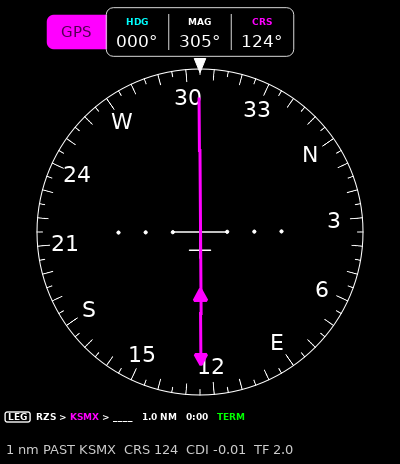
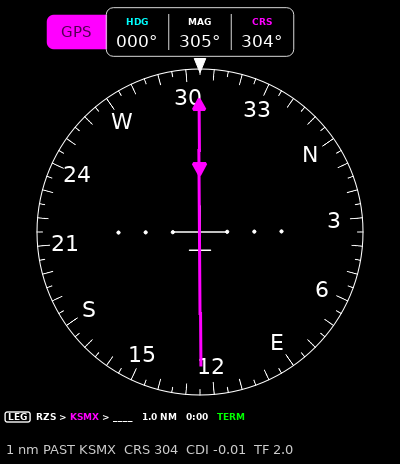
docs: FP7 HSI re-run against the FPLCRS past-TO fix (AER-2672)
Re-ran docs/images/fp7_hsi/ against fix-gateway branch
aer-2672/fplcrs-past-to @ aa794ab (billmallard/fix-gateway#35). Past KSMX
FPLCRS now holds 304.39 instead of turning to 124.39; the bottom-right tile
(1 nm past, 0.5 nm right) shows the bar left of a 304 pointer. The four
before-KSMX tiles are byte-identical to the first run.

flight_plan_validation.md section 1: "course and sense hold FROM the last
waypoint" FAIL -> PASS, keeping the first run's finding on record.

diff --git a/docs/images/fp7_hsi/hsi_chain_gpssrc0_table.md b/docs/images/fp7_hsi/hsi_chain_gpssrc0_table.md
@@ -1,12 +1,10 @@
-ACT 2 ack 101
-ACT 4 ack 102
 | point | FPLSTATE | FPLACTLEG | FPLPHASE | CDISCALE | WPFROM | WPNAME | WPNEXT | FPLCRS | FPLXTK | FPLCDI | FPLTF | GPSCRS | GPSCDI | GPSTF | COURSE | CDI | TOFROM | WPDIS | WPETE | non-zero flags |
 |---|---|---|---|---|---|---|---|---|---|---|---|---|---|---|---|---|---|---|---|---|
-| KSBA-GVO on track | 1 | 2 | TERM | 1.0 | KSBA | GVO | RZS | 296.9813655218581 | -0.00519801964529525 | 0.00519801964529525 | 1 | 296.9813655218581 | 0.00519801964529525 | 1.0 | 296.9813655218581 | 0.00519801964529525 | 1.0 | 6.95974421565447 | 209 |  |
-| KSBA-GVO 0.5 nm RIGHT | 1 | 2 | TERM | 1.0 | KSBA | GVO | RZS | 296.9813718293875 | 0.4948015974247155 | -0.4948015974247155 | 1 | 296.9813718293875 | -0.4948015974247155 | 1.0 | 296.9813718293875 | -0.4948015974247155 | 1.0 | 6.977926249490428 | 209 |  |
-| KSBA-GVO 0.5 nm LEFT | 1 | 2 | TERM | 1.0 | KSBA | GVO | RZS | 296.98135921432396 | -0.5051976367158506 | 0.5051976367158506 | 1 | 296.98135921432396 | 0.5051976367158506 | 1.0 | 296.98135921432396 | 0.5051976367158506 | 1.0 | 6.977436754938683 | 209 |  |
-| KSBA-GVO 1.0 nm RIGHT | 1 | 2 | TERM | 1.0 | KSBA | GVO | RZS | 296.98137813690875 | 0.9948012144938791 | -0.9948012144938791 | 1 | 296.98137813690875 | -0.9948012144938791 | 1.0 | 296.98137813690875 | -0.9948012144938791 | 1.0 | 7.031704576923076 | 211 |  |
+| KSBA-GVO on track | 1 | 2 | TERM | 1.0 | KSBA | GVO | RZS | 296.9813655218593 | -0.00519801964529525 | 0.00519801964529525 | 1 | 296.9813655218593 | 0.00519801964529525 | 1.0 | 296.9813655218593 | 0.00519801964529525 | 1.0 | 6.95974421565447 | 209 |  |
+| KSBA-GVO 0.5 nm RIGHT | 1 | 2 | TERM | 1.0 | KSBA | GVO | RZS | 296.9813718293793 | 0.4948015974247155 | -0.4948015974247155 | 1 | 296.9813718293793 | -0.4948015974247155 | 1.0 | 296.9813718293793 | -0.4948015974247155 | 1.0 | 6.977926249490428 | 209 |  |
+| KSBA-GVO 0.5 nm LEFT | 1 | 2 | TERM | 1.0 | KSBA | GVO | RZS | 296.98135921433584 | -0.5051976367158506 | 0.5051976367158506 | 1 | 296.98135921433584 | 0.5051976367158506 | 1.0 | 296.98135921433584 | 0.5051976367158506 | 1.0 | 6.977436754938683 | 209 |  |
+| KSBA-GVO 1.0 nm RIGHT | 1 | 2 | TERM | 1.0 | KSBA | GVO | RZS | 296.9813781369123 | 0.9948012144938791 | -0.9948012144938791 | 1 | 296.9813781369123 | -0.9948012144938791 | 1.0 | 296.9813781369123 | -0.9948012144938791 | 1.0 | 7.031704576923076 | 211 |  |
 | KSBA-GVO 2.0 nm RIGHT (pegged) | 1 | 2 | TERM | 1.0 | KSBA | GVO | RZS | 296.981390751956 | 1.9948004486353823 | -1.0 | 1 | 296.981390751956 | -1.0 | 1.0 | 296.981390751956 | -1.0 | 1.0 | 7.2423543297862425 | 217 |  |
-| RZS-KSMX 1.0 nm before KSMX | 1 | 4 | TERM | 1.0 | RZS | KSMX |  | 304.41010824821416 | -0.006823534495380544 | 0.006823534495380544 | 1 | 304.41010824821416 | 0.006823534495380544 | 1.0 | 304.41010824821416 | 0.006823534495380544 | 1.0 | 0.9999999657329657 | 30 |  |
-| RZS-KSMX 1.0 nm PAST KSMX | 1 | 4 | TERM | 1.0 | RZS | KSMX |  | 124.39093560945896 | 0.006823633574540903 | -0.006823633574540903 | 2 | 124.39093560945896 | -0.006823633574540903 | 2.0 | 124.39093560945896 | -0.006823633574540903 | 2.0 | 1.0000000342497457 | 30 |  |
-| RZS-KSMX 1.0 nm past, 0.5 nm RIGHT | 1 | 4 | TERM | 1.0 | RZS | KSMX |  | 124.39096913073452 | 0.5068114178737602 | -0.5068114178737602 | 2 | 124.39096913073452 | -0.5068114178737602 | 2.0 | 124.39096913073452 | -0.5068114178737602 | 2.0 | 1.1179595433736476 | 34 |  |
+| RZS-KSMX 1.0 nm before KSMX | 1 | 4 | TERM | 1.0 | RZS | KSMX |  | 304.41010824823945 | -0.006823534495380544 | 0.006823534495380544 | 1 | 304.41010824823945 | 0.006823534495380544 | 1.0 | 304.41010824823945 | 0.006823534495380544 | 1.0 | 0.9999999657329657 | 30 |  |
+| RZS-KSMX 1.0 nm PAST KSMX | 1 | 4 | TERM | 1.0 | RZS | KSMX |  | 304.3909356095026 | 0.006823633574540903 | -0.006823633574540903 | 2 | 304.3909356095026 | -0.006823633574540903 | 2.0 | 304.3909356095026 | -0.006823633574540903 | 2.0 | 1.0000000342497457 | 30 |  |
+| RZS-KSMX 1.0 nm past, 0.5 nm RIGHT | 1 | 4 | TERM | 1.0 | RZS | KSMX |  | 304.39096913072854 | 0.5068114178737602 | -0.5068114178737602 | 2 | 304.39096913072854 | -0.5068114178737602 | 2.0 | 304.39096913072854 | -0.5068114178737602 | 2.0 | 1.1179595433736476 | 34 |  |

diff --git a/docs/flight_plan_validation.md b/docs/flight_plan_validation.md
@@ -16,13 +16,19 @@ The HSI is not modified by the flight plan epic. It reads only `COURSE`,
 `CDI`, `TOFROM`, `NAVSRC` and `NAVTYPE`. This checks that those keys carry the
 engine's guidance with the right sense.
 
-**Setup (2026-10-04).** A real fix-gateway, `dev` @ `aebde02`, with only
+**Setup (2026-10-04).** A real fix-gateway with only
 `netfix`, `compute` and `flightplan` enabled; the real pyEfis `HSI` and
 `nav_status` widgets connected to it and rendered offscreen. Route KSBA > GVO >
 RZS > KSMX published as the route block. Position, `GS = 120`, `MAGVAR = 0`
 and `HEAD` written over netfix at known offsets from the active leg. Nothing
 between the route block and the HSI is mocked. Driver, renders and the full
 key dump: `docs/images/fp7_hsi/` (README has the commands).
+
+First run against `dev` @ `aebde02`: the course pointer turned to the
+reciprocal past KSMX (billmallard/fix-gateway#35). Re-run against the fix,
+branch `aer-2672/fplcrs-past-to` @ `aa794ab`; the table and renders below are
+from that run. The four points before KSMX are byte-identical between the two
+runs.
 
 This is not the Beelink bench. X-Plane was not feeding the bench gateway at
 the time (`LAT`/`LONG` old), and the bench was holding another branch for
@@ -39,8 +45,8 @@ is offscreen Qt rather than the kiosk.
 | KSBA-GVO 1.0 nm right | 296.98 | 296.98 | +0.995 | -0.995 | -0.995 | 1 TO | full scale left (TERM, 1.0 nm) |
 | KSBA-GVO 2.0 nm right | 296.98 | 296.98 | +1.995 | -1.000 | -1.000 | 1 TO | pegged left |
 | RZS-KSMX 1 nm before KSMX | 304.41 | 304.41 | -0.007 | +0.007 | +0.007 | 1 TO | bar centred |
-| 1 nm past KSMX | **124.39** | **124.39** | +0.007 | -0.007 | -0.007 | 2 FROM | pointer turned 180 deg |
-| 1 nm past KSMX, 0.5 nm right | **124.39** | **124.39** | +0.507 | -0.507 | -0.507 | 2 FROM | bar right of the 124 pointer (reversed) |
+| 1 nm past KSMX | 304.39 | 304.39 | +0.007 | -0.007 | -0.007 | 2 FROM | bar centred, pointer holds 304 |
+| 1 nm past KSMX, 0.5 nm right | 304.39 | 304.39 | +0.507 | -0.507 | -0.507 | 2 FROM | bar left of the 304 pointer (fly left) |
 
 `FPLPHASE` was `TERM`, `CDISCALE` 1.0, throughout (every point is inside 30 nm
 of KSBA or KSMX).
@@ -51,7 +57,7 @@ of KSBA or KSMX).
 | `CDI == FPLCDI == -FPLXTK / CDISCALE`, clamped at +-1 | **PASS** |
 | Sense: right of track -> bar left of centre (fly left), and the reverse | **PASS** |
 | TO/FROM flips after the last waypoint, no sequencing | **PASS** (flag) |
-| Course and sense hold FROM the last waypoint | **FAIL** -- the engine swings `FPLCRS` to the reciprocal once along-track goes negative, so the needle reverses. billmallard/fix-gateway#35. The same path runs at the MAP, where the brief requires guidance to continue along the extended final approach course. |
+| Course and sense hold FROM the last waypoint | **PASS** -- after billmallard/fix-gateway#35. On `aebde02` this was a FAIL: `FPLCRS` swung to the reciprocal (124.39) once along-track went negative, so the needle reversed. The fix keeps the extended leg course (304.39; the 0.02 deg from 304.41 is great-circle convergence over 2 nm). The same path runs at the MAP and in SUSP past a fix; both are pinned by fix-gateway engine tests rather than this render. |
 
 ## 2. Internal plan vs X-Plane's FMS (`GPSSRC = 1`)
 

diff --git a/docs/images/fp7_hsi/README.md b/docs/images/fp7_hsi/README.md
@@ -1,7 +1,9 @@
 # FP7 HSI chain evidence (billmallard/pyEfis#189)
 
 The real pyEfis `HSI` and `nav_status` widgets, rendered offscreen while
-connected to a **real fix-gateway** (`dev` @ `aebde02`) running the
+connected to a **real fix-gateway** (branch `aer-2672/fplcrs-past-to` @
+`aa794ab`, the fix for billmallard/fix-gateway#35; first run was `dev` @
+`aebde02`) running the
 `flightplan` engine, the `compute` selects (`GPSSRC`, `NAVSRC`) and `netfix`.
 The aircraft position is synthetic: written over netfix at known cross-track
 offsets from the active leg of KSBA > GVO > RZS > KSMX. Nothing in the chain
